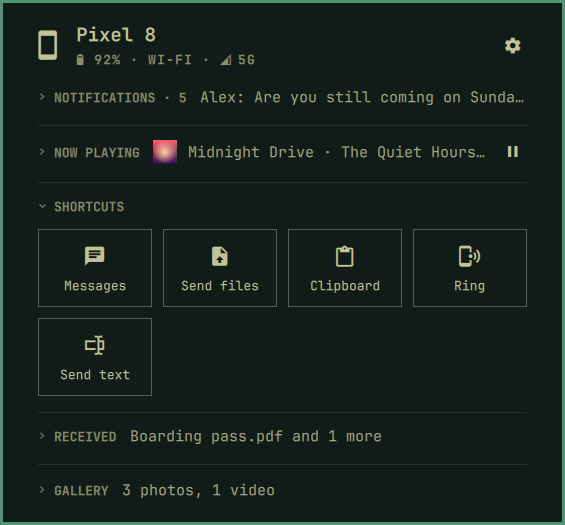
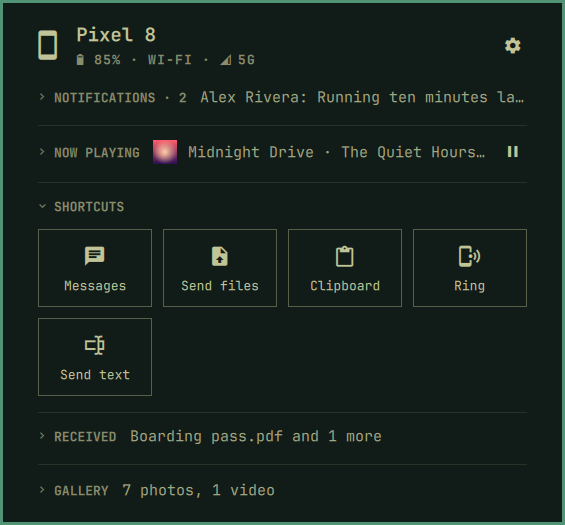
Pictures retaken: two demo notifications, the Gallery's two rows from the demo's own pictures; the README picture with the Gallery labelled and no cursor

diff --git a/docs/internals/screenshots.md b/docs/internals/screenshots.md
@@ -15,8 +15,12 @@ before and after.
 1. Put the panel's monitor on an empty workspace, and the pointer off the
    panel (`hyprctl dispatch 'hl.dsp.cursor.move({ x = 300, y = 700 })'`).
 2. Start the made-up player: `tools/demo-player ~/.cache/sceny.devices/demo/cover.png &`
-   (any square image as the cover).
-3. `demo ""`, the sections in their default order (`moveSection`), `open`,
+   (any square image as the cover). The demo's Gallery shows up to eight
+   pictures from `~/.cache/sceny.devices/demo/gallery/` (yours, not in the
+   repository; none with a person, a watermark in the middle, or someone
+   else's characters).
+3. The pointer off the panel *before* `open` (else the cursor shows).
+   `demo ""`, the Gallery in view (Shortcuts folded, `moveSection`), `open`,
    then `grim -o <monitor> main.png`; `messages`, `openThread 9001`, then
    `grim -o <monitor> messages.png`.
 4. `tools/listing-image main.png messages.png preview.png`. If the panel's

diff --git a/docs/gallery-and-files.md b/docs/gallery-and-files.md
@@ -9,7 +9,7 @@ Click one to open it; from a corner, copy it or save it in
 `Pictures/<device>`; or drag it into a window. Below, the biggest albums
 open in Files.
 
-![Gallery: four photos, a video marked with play, and album links (demo data)](images/gallery.png)
+![Gallery: two rows of photos, a video marked with play, and album links (demo data)](images/gallery.png)
 
 The Gallery needs `sshfs` (the section offers to install it) and storage
 access in the app. A ring by its title means the phone is being read.

diff --git a/docs/panel.md b/docs/panel.md
@@ -4,7 +4,7 @@
 
 Click the pill. Every section folds to one line.
 
-![The panel: shortcuts, Now playing and notifications (demo data)](images/panel.png)
+![The panel: shortcuts, Now playing, notifications, received files and the Gallery (demo data)](images/panel.png)
 
 ## Notifications
 
